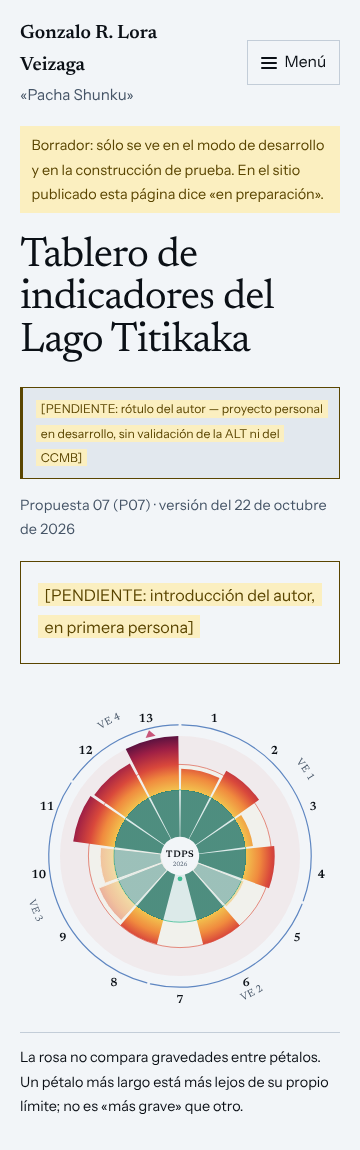
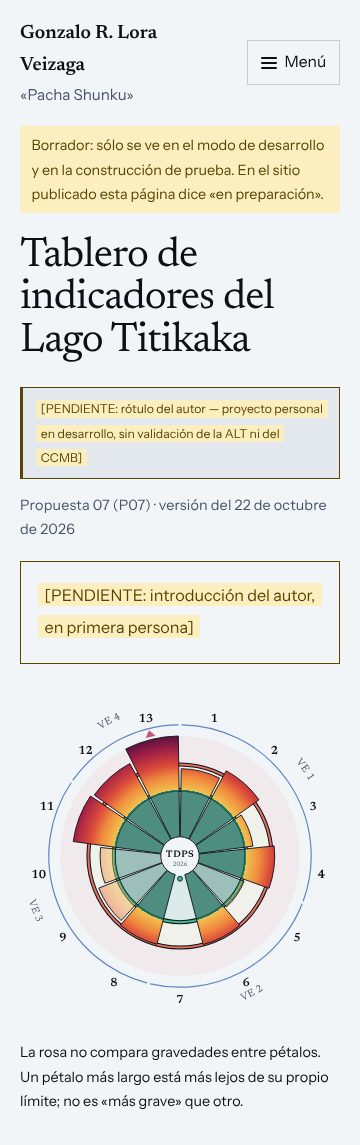
Tablero: contorno en currentColor alrededor de pétalos y círculos
Decisión del autor (22-10-2026), sin cambiar la paleta:
- Pétalos y punto «en la referencia»: contorno de 0.9 px del color del texto.
- Círculos de límite y alto riesgo: trazo de color entre dos filetes del color del texto.
- Grosores en píxeles de pantalla (non-scaling-stroke); en la imagen para compartir, el
  contorno toma el color del texto del tema publicado.
- Nueva medición de contraste (docs/tablero/contraste-figura.md): pétalos, punto y círculos
  cumplen 3:1 en noche y crema, claro y oscuro. Queda el arco de VE en crema claro (2.91).
- Leyenda al día; capturas e imagen de muestra regeneradas.
- Aviso de lint:taste: escala de color de la leyenda marcada como excepción; sin filete en
  el pie de figura.

Claude-Session: https://claude.ai/code/session_01LWoJiaGhtJnVEGq83pFwgw

diff --git a/src/lib/tablero.ts b/src/lib/tablero.ts
@@ -153,6 +153,7 @@ export interface OpcionesRosa {
   centro: [string, string];             // «TDPS» y el año
   variables: { id: string; nombre: string }[];
   textos?: boolean;                     // false: sin ningún texto (imagen para compartir)
+  contorno?: string;                    // color del contorno; por defecto, el del texto del tema
 }
 
 const ESCALA = 300;
@@ -171,7 +172,6 @@ export const COLORES_ROSA = {
   enReferencia: '#3FBF95',
   fueraDeEscala: '#C9567A',
   arcoVE: '#5E86C1',
-  contornoIncierto: '#F4F1EA',
 } as const;
 
 // Paradas del degradé por z (se convierten a radio con R(z)).
@@ -255,13 +255,18 @@ export function svgRosa(petalos: PetaloRosa[], o: OpcionesRosa): string {
 
   // Zonas de fondo y círculos de límite (z = 1) y alto riesgo (z = 2).
   const c = COLORES_ROSA;
+  const contorno = o.contorno ?? 'currentColor';
+  const trazo = `stroke="${contorno}" stroke-width="0.9" vector-effect="non-scaling-stroke"`;
   partes.push(
     '<g class="rosa-zonas">' +
       `<path d="${anillo(rIn, rz(1))}" fill="${c.zonaVerde}" fill-opacity="0.10" fill-rule="evenodd"/>` +
       `<path d="${anillo(rz(1), rz(2))}" fill="${c.zonaAmbar}" fill-opacity="0.07" fill-rule="evenodd"/>` +
       `<path d="${anillo(rz(2), rz(Z_MAX))}" fill="${c.zonaRoja}" fill-opacity="0.06" fill-rule="evenodd"/>` +
-      `<circle r="${rz(1)}" fill="none" stroke="${c.circuloLimite}" stroke-width="2"/>` +
-      `<circle r="${rz(2)}" fill="none" stroke="${c.circuloAltoRiesgo}" stroke-width="2"/>` +
+      // Cada círculo lleva un filete del color del texto a cada lado: contrasta con
+      // cualquier fondo sin cambiar el color del círculo (WCAG 1.4.11).
+      [[rz(1), c.circuloLimite], [rz(2), c.circuloAltoRiesgo]]
+        .map(([r, color]) => `<circle r="${r}" fill="none" stroke="${contorno}" stroke-width="4" vector-effect="non-scaling-stroke"/><circle r="${r}" fill="none" stroke="${color}" stroke-width="2" vector-effect="non-scaling-stroke"/>`)
+        .join('') +
       '</g>',
   );
 
@@ -273,11 +278,11 @@ export function svgRosa(petalos: PetaloRosa[], o: OpcionesRosa): string {
     const medio = (i + 0.5) * paso;
     let g = `<g data-petalo="${i + 1}">`;
     if (p.z > 0) {
-      const trazo = p.incierto ? ` fill-opacity="0.45" stroke="${c.contornoIncierto}" stroke-width="0.9" vector-effect="non-scaling-stroke"` : '';
-      g += `<path d="${sector(desde, hasta, rIn, Math.max(rz(p.z), rIn + 1))}" fill="url(#rosa-degrade)"${trazo}/>`;
+      // Todos los pétalos llevan contorno del color del texto; el incierto es además tenue.
+      g += `<path d="${sector(desde, hasta, rIn, Math.max(rz(p.z), rIn + 1))}" fill="url(#rosa-degrade)"${p.incierto ? ' fill-opacity="0.45"' : ''} ${trazo}/>`;
     } else {
       const [x, y] = punto(medio, rIn + 9);
-      g += `<circle cx="${x}" cy="${y}" r="6" fill="${c.enReferencia}"/>`;
+      g += `<circle cx="${x}" cy="${y}" r="6" fill="${c.enReferencia}" ${trazo}/>`;
     }
     if (p.z >= Z_MAX) {
       const [ax, ay] = punto(medio, ESCALA + 24);

diff --git a/src/pages/og/[pagina].png.ts b/src/pages/og/[pagina].png.ts
@@ -36,10 +36,12 @@ const nodo = (type: string, style: Record<string, unknown>, children?: unknown, 
 export const GET: APIRoute = async () => {
   const { vigente, petalos } = await tablero();
   const v = vigente.data;
-  const svg = svgRosa(petalos, { titulo: '', descripcion: '', centro: ['', ''], variables: v.variables, textos: false });
+  // El contorno va del color del texto del tema publicado (en el SVG suelto no hay currentColor).
+  const c = await coloresDelTema().catch(() => null);
+  const svg = svgRosa(petalos, { titulo: '', descripcion: '', centro: ['', ''], variables: v.variables, textos: false, contorno: c?.texto ?? '#222222' });
   const rosa = await sharp(Buffer.from(svg)).resize(560, 560).png().toBuffer();
   try {
-    const c = await coloresDelTema();
+    if (!c) throw new Error('sin colores del tema');
     const tema = TEMAS.find((t) => t.id === TEMA)!;
     const fuentes = [
       ...(await fuente(tema.cuerpo.paquete, tema.cuerpo.familia, 600)),

diff --git a/docs/tablero/contraste-figura.md b/docs/tablero/contraste-figura.md
@@ -1,17 +1,41 @@
 # Tablero: contraste de los objetos gráficos de la rosa
 
-Criterio WCAG 2.1, 1.4.11 (contraste no textual): 3:1 contra el color adyacente. Se mide cada color fijo de la figura contra el fondo de página de las dos direcciones, en claro y en oscuro (valores de `src/styles/temas/noche.css` y `crema.css`; los temas no se tocaron). Los colores con opacidad se mezclan antes con el fondo. ✗ = por debajo de 3:1.
+Criterio WCAG 2.1, 1.4.11 (contraste no textual): 3:1 contra el color adyacente. Se mide contra el fondo de página de las dos direcciones, en claro y en oscuro (valores de `src/styles/temas/noche.css` y `crema.css`; los temas no se tocaron). Los colores con opacidad se mezclan antes con el fondo. ✗ = por debajo de 3:1.
 
-Medición del 22-10-2026, Propuesta 07.
+## Medición con contorno (vigente, 22-10-2026)
+
+Decisión del autor (22-10-2026): contorno fino en `currentColor` alrededor de pétalos y círculos, sin cambiar la paleta.
+
+- Cada pétalo y el punto «en la referencia» llevan un contorno de 0.9 px del color del texto del tema.
+- Cada círculo (límite y alto riesgo) es un trazo de color de 2 px entre dos filetes de 1 px del color del texto.
+- Los grosores son en píxeles de pantalla (`vector-effect: non-scaling-stroke`): no se adelgazan cuando la rosa se achica en el teléfono.
+- En la imagen para compartir, el contorno toma el color del texto del tema publicado.
+
+### Contorno contra lo que lo rodea
+
+El contorno es el color del texto del tema (`currentColor`). Mínimo 3:1.
+
+| | noche claro | noche oscuro | crema claro | crema oscuro |
+|---|---:|---:|---:|---:|
+| Fondo de página | 17.45 | 16.02 | 13.81 | 14.86 |
+| Zona verde (z 0-1, 10%) | 15.48 | 14.74 | 12.38 | 13.56 |
+| Zona ámbar (z 1-2, 7%) | 16.88 | 14.49 | 13.57 | 13.13 |
+| Zona roja (z 2-3.5, 6%) | 16.22 | 15.41 | 12.89 | 14.13 |
+
+noche claro: texto #0b1016, fondo #f2f5f8 · noche oscuro: texto #dfe9f2, fondo #070b12 · crema claro: texto #1f1712, fondo #e8e3da · crema oscuro: texto #ede5da, fondo #18120e
+
+### Colores de la figura contra el fondo, sin contorno
+
+La misma medida de la primera versión, para comparar. Con contorno, la frontera de cada pétalo, del punto y de los círculos ya no depende de estos números.
 
 | Objeto | Color | noche claro | noche oscuro | crema claro | crema oscuro |
 |---|---|---:|---:|---:|---:|
 | Círculo límite (z = 1) | #3FBF95 | 2.11 ✗ | 8.54 | 1.81 ✗ | 8.04 |
 | Círculo alto riesgo (z = 2) | #E0705F | 2.88 ✗ | 6.24 | 2.47 ✗ | 5.88 |
-| Arco de VE | #5E86C1 | 3.39 | 5.31 | 2.91 ✗ | 5.00 |
-| Triángulo fuera de escala | #C9567A | 3.77 | 4.78 | 3.22 | 4.50 |
+| Arco de VE (sin contorno) | #5E86C1 | 3.39 | 5.31 | 2.91 ✗ | 5.00 |
+| Triángulo fuera de escala (sin contorno) | #C9567A | 3.77 | 4.78 | 3.22 | 4.50 |
 | Punto en la referencia | #3FBF95 | 2.11 ✗ | 8.54 | 1.81 ✗ | 8.04 |
-| Pétalo, parte dentro del límite | #1F6F5C (opacidad 0.75) | 3.33 | 2.32 ✗ | 3.05 | 2.25 ✗ |
+| Pétalo, dentro del límite | #1F6F5C (opacidad 0.75) | 3.33 | 2.32 ✗ | 3.05 | 2.25 ✗ |
 | Pétalo, z = 1 (ámbar) | #F2C14E | 1.53 ✗ | 11.74 | 1.31 ✗ | 11.06 |
 | Pétalo, z = 1.5 | #F08A3E | 2.28 ✗ | 7.89 | 1.95 ✗ | 7.43 |
 | Pétalo, z = 2 | #D9483B | 3.88 | 4.64 | 3.33 | 4.37 |
@@ -21,17 +45,28 @@ Medición del 22-10-2026, Propuesta 07.
 | Pétalo incierto, ámbar | #F2C14E (opacidad 0.45) | 1.21 ✗ | 3.10 | 1.13 ✗ | 3.16 |
 | Pétalo incierto, z = 2 | #D9483B (opacidad 0.45) | 1.84 ✗ | 1.75 ✗ | 1.74 ✗ | 1.79 ✗ |
 
-noche claro: fondo #f2f5f8 · noche oscuro: fondo #070b12 · crema claro: fondo #e8e3da · crema oscuro: fondo #18120e
+### Círculos contra su filete
+
+El trazo de color va entre dos filetes del color del texto; se mide el color contra el filete.
+
+| | noche claro | noche oscuro | crema claro | crema oscuro |
+|---|---:|---:|---:|---:|
+| Límite (#3FBF95) | 8.27 | 1.88 ✗ | 7.65 | 1.85 ✗ |
+| Alto riesgo (#E0705F) | 6.05 | 2.57 ✗ | 5.59 | 2.53 ✗ |
 
 ## Lectura
 
-- Sólo dos colores llegan a 3:1 en los cuatro fondos: el triángulo de fuera de escala (#C9567A) y el rojo de z = 2 (#D9483B). El arco de VE pasa en tres (falla en crema claro, 2.91). Los colores claros (verdes de los círculos, ámbar) fallan sobre fondo claro; los oscuros (vino de z = 2.8 y 3.5, verde apagado dentro del límite) fallan sobre fondo oscuro. Con colores fijos es lo esperable: sólo un color de luminosidad media contrasta a la vez con un fondo casi blanco y con uno casi negro.
-- Los pétalos inciertos (opacidad 0.45) no llegan a 3:1 en ningún fondo. El contorno claro (#F4F1EA, 0.9 px) ayuda en los fondos oscuros, no en los claros.
-- El borde de un pétalo no siempre toca el fondo de página: casi siempre cae sobre las zonas tenues o junto a otro pétalo. La tabla de arriba es la peor situación.
-- Atenuante: la figura tiene equivalente completo en texto (la tabla, con valor, anclas, z y estado de cada pétalo), y la leyenda explica cada marca con palabras. La información no depende sólo del contraste de la figura.
+- **Pétalos y punto «en la referencia»: cumplen en los cuatro fondos.** La frontera de cada uno la marca el contorno, que contrasta entre 12.38:1 y 17.45:1 con el fondo y con las tres zonas tenues. Vale también para los pétalos inciertos, que antes no llegaban a 3:1 en ningún fondo.
+- **Círculos: cumplen en los cuatro fondos.** En modo claro los separan del fondo los filetes del color del texto (13.81:1 a 17.45:1 contra el fondo). En modo oscuro el trazo de color ya contrasta solo con el fondo (círculo de límite 8.04-8.54; alto riesgo 5.88-6.24). En oscuro el trazo de color y su filete claro se parecen (1.85-2.57), pero eso no afecta: lo que tiene que contrastar es el círculo contra el fondo, no el círculo contra su propio filete.
+- **Sin contorno, por decisión de alcance:**
+  - El arco de VE no llega en crema claro (2.91:1); en los otros tres fondos pasa.
+  - El triángulo de fuera de escala pasa en los cuatro fondos (3.22-4.78).
+- **El color dentro de cada pétalo** (verde → ámbar → rojo → vino) no tiene contraste propio garantizado entre tramos ni contra el contorno. No hace falta para leer la figura: z la dicen también el largo del pétalo, los círculos y la tabla.
 
-## Opciones (decisión del autor)
+## Medición sin contorno (anterior, 22-10-2026)
 
-1. Dejarlo así, apoyado en la tabla como alternativa.
-2. Contorno fino de cada pétalo y de cada círculo en `currentColor` (el color del texto del tema): resuelve 1.4.11 en los cuatro fondos sin cambiar la paleta.
-3. Colores de la figura que dependan del modo (una paleta para claro y otra para oscuro). Contradice la regla del encargo de colores fijos.
+La tabla «Colores de la figura contra el fondo, sin contorno» de arriba es esa medición. En resumen: sólo el triángulo y el rojo de z = 2 llegaban a 3:1 en los cuatro fondos. Los colores claros fallaban sobre fondo claro, los oscuros sobre fondo oscuro, y los pétalos inciertos en todos.
+
+## Pendiente (decisión del autor)
+
+- Si el arco de VE lleva también contorno o filetes (es lo único que queda por debajo de 3:1, en crema claro).

diff --git a/docs/tablero/COMO-ACTUALIZAR.md b/docs/tablero/COMO-ACTUALIZAR.md
@@ -40,7 +40,7 @@ El sitio no se construye, y el error dice qué archivo y qué campo, si:
 - `umbral: fuente` → «umbral con fuente»; `umbral: convencion` → «umbral por convención» y asterisco junto al valor.
 - `estado_valor: fuente` → «valor con fuente»; `estado_valor: provisorio` → «valor provisorio».
 - Umbral y valor con fuente se resumen como «con fuente».
-- `incierto: true` → pétalo tenue con contorno claro y «valor incierto» en la tabla.
+- `incierto: true` → pétalo tenue (opacidad 0.45) y «valor incierto» en la tabla. Todos los pétalos llevan un contorno fino del color del texto del tema.
 
 (El encargo llamaba `valor` al segundo campo; se llama `estado_valor` porque `valor` ya es la cifra.)
 
@@ -73,6 +73,7 @@ Los nombres de las variables estructurantes (`variables`) salen en la figura, en
 ## La figura
 
 - Colores de pétalos y zonas: fijos, en `COLORES_ROSA` y `PARADAS` (`src/lib/tablero.ts`). No dependen del tema.
+- Contorno: pétalos, punto «en la referencia» y círculos llevan un contorno fino del color del texto del tema (`currentColor`), para que contrasten con cualquier fondo sin cambiar la paleta (decisión del autor, 22-10-2026).
 - Tipografía de la figura: `--fuente-tablero`, definida en un solo lugar (regla `.tablero` en `src/components/tablero/Rosa.astro`). Hoy hereda la del texto. Si se decide otra (por ejemplo Lato), hay que autoalojarla como las demás (paquete de Fontsource, licencia OFL) y poner su nombre en esa variable.
 - Contraste de los objetos gráficos contra los fondos de «noche» y «crema»: `docs/tablero/contraste-figura.md`.
 
